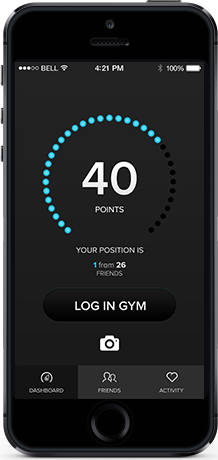
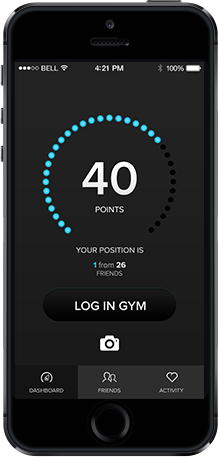
image shadow fixed, link fixed

diff --git a/index.html b/index.html
@@ -4,10 +4,10 @@
   <head>
     <meta charset="utf-8">
     <meta http-equiv="X-UA-Compatible" content="IE=edge">
-    <title>Your awesome title</title>
+    <title>Ripebeast+ Fitness Platform</title>
     <meta name="viewport" content="width=device-width">
-    <meta name="description" content="Write an awesome description for your new site here. You can edit this line in _config.yml. It will appear in your document head meta (for Google search results) and in your feed.xml site description.">
-    <link rel="canonical" href="http://yourdomain.com/">
+    <meta name="description" content="Ripebeast+ is a Fitness Platform for everyone who loves fitness lifestyle.">
+    <link rel="canonical" href="http://ripebeastplus.com/">
 
     <!-- Custom CSS -->
     <link rel="stylesheet" href="/css/main.css">
@@ -70,16 +70,16 @@
     <div class="products">
       <ul class="product-vertical-list">
         <li>
-          <h2 class="product-name"><a href="/"><img src="/data/gymlog-icon.png"/> <strong>Gym</strong>Log</a></h2>
+          <h2 class="product-name"><a href="/gymlog/"><img src="/data/gymlog-icon.png"/> <strong>Gym</strong>Log</a></h2>
           <img class="phone" src="/data/gymlog-phone.png" />
         </li>
         
         <li>
-          <h2 class="product-name"><a href="/"><img src="/data/nutrinoid-icon.png"/> <strong>Nutri</strong>noid</a></h2>
+          <h2 class="product-name"><a href="/nutrinoid/"><img src="/data/nutrinoid-icon.png"/> <strong>Nutri</strong>noid</a></h2>
           <img class="phone" src="/data/nutrinoid-phone.png" />
         </li>
         <li>
-          <h2 class="product-name"><a href="/"><img src="/data/secret-icon.png"/> <strong>Secret</strong></a></h2>
+          <h2 class="product-name"><a href="/secret/"><img src="/data/secret-icon.png"/> <strong>Secret</strong></a></h2>
           <img class="phone" src="/data/secret-phone.png" />
         </li>
       </ul>

diff --git a/jekyll/update/2014/07/30/welcome-to-jekyll/index.html b/jekyll/update/2014/07/30/welcome-to-jekyll/index.html
@@ -6,8 +6,8 @@
     <meta http-equiv="X-UA-Compatible" content="IE=edge">
     <title>Welcome to Jekyll!</title>
     <meta name="viewport" content="width=device-width">
-    <meta name="description" content="Write an awesome description for your new site here. You can edit this line in _config.yml. It will appear in your document head meta (for Google search results) and in your feed.xml site description.">
-    <link rel="canonical" href="http://yourdomain.com/jekyll/update/2014/07/30/welcome-to-jekyll/">
+    <meta name="description" content="Ripebeast+ is a Fitness Platform for everyone who loves fitness lifestyle.">
+    <link rel="canonical" href="http://ripebeastplus.com/jekyll/update/2014/07/30/welcome-to-jekyll/">
 
     <!-- Custom CSS -->
     <link rel="stylesheet" href="/css/main.css">

diff --git a/nutrinoid/index.html b/nutrinoid/index.html
@@ -6,8 +6,8 @@
     <meta http-equiv="X-UA-Compatible" content="IE=edge">
     <title>Nutrinoid | Ripebeast+ Fitness Platform</title>
     <meta name="viewport" content="width=device-width">
-    <meta name="description" content="Write an awesome description for your new site here. You can edit this line in _config.yml. It will appear in your document head meta (for Google search results) and in your feed.xml site description.">
-    <link rel="canonical" href="http://yourdomain.com/nutrinoid/">
+    <meta name="description" content="Ripebeast+ is a Fitness Platform for everyone who loves fitness lifestyle.">
+    <link rel="canonical" href="http://ripebeastplus.com/nutrinoid/">
 
     <!-- Custom CSS -->
     <link rel="stylesheet" href="/css/main.css">

diff --git a/gymlog/index.html b/gymlog/index.html
@@ -6,8 +6,8 @@
     <meta http-equiv="X-UA-Compatible" content="IE=edge">
     <title>Gymlog | Ripebeast+ Fitness Platform</title>
     <meta name="viewport" content="width=device-width">
-    <meta name="description" content="Write an awesome description for your new site here. You can edit this line in _config.yml. It will appear in your document head meta (for Google search results) and in your feed.xml site description.">
-    <link rel="canonical" href="http://yourdomain.com/gymlog/">
+    <meta name="description" content="Ripebeast+ is a Fitness Platform for everyone who loves fitness lifestyle.">
+    <link rel="canonical" href="http://ripebeastplus.com/gymlog/">
 
     <!-- Custom CSS -->
     <link rel="stylesheet" href="/css/main.css">

diff --git a/secret/index.html b/secret/index.html
@@ -6,8 +6,8 @@
     <meta http-equiv="X-UA-Compatible" content="IE=edge">
     <title>Secret | Ripebeast+ Fitness Platform</title>
     <meta name="viewport" content="width=device-width">
-    <meta name="description" content="Write an awesome description for your new site here. You can edit this line in _config.yml. It will appear in your document head meta (for Google search results) and in your feed.xml site description.">
-    <link rel="canonical" href="http://yourdomain.com/secret/">
+    <meta name="description" content="Ripebeast+ is a Fitness Platform for everyone who loves fitness lifestyle.">
+    <link rel="canonical" href="http://ripebeastplus.com/secret/">
 
     <!-- Custom CSS -->
     <link rel="stylesheet" href="/css/main.css">
